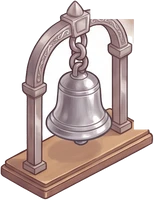
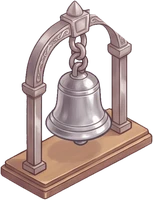
Build 480: Final exam hall (editor only) fixes after Maria's IMG_9849 («Часы коряво крутятся и справа колокольчик плохо вырезан»): the hourglass no longer turns over (the glass turning on its pedestal looked clumsy), sand keeps running and a golden shimmer marks each new question every 12 s; the bel

diff --git a/js/game.js b/js/game.js
@@ -1,15 +1,15 @@
 // Magic school idle tycoon — v0.3: isometric campus with walking creatures.
 import './clock.js?v=470';   // build audit 2026-11-24: trusted clock (server time), must stay the first import
-import './edit_guard.js?v=479';   // room editor (?edit only): in-memory storage, no cloud
+import './edit_guard.js?v=480';   // room editor (?edit only): in-memory storage, no cloud
 import {
   OFFLINE_CAP_SEC, MAX_DESKS, MAX_ITEM_LEVEL, MAX_TEACHER_LEVEL, MAX_TIME_LEVEL,
   CLASSES, SPECIES, NAMES, MISSIONS, WORLDS, WORLD, META,
-} from './data.js?v=479';
-import { EMOJI_RE, emojiImage, preloadEmoji, watchEmoji, emojiHtml } from './emoji.js?v=479';
-import { initMinigame } from './minigame.js?v=479';
-import { initChests } from './chests.js?v=479';
-import { initLore } from './lore.js?v=479';
-import { initAvatar } from './avatar.js?v=479';
+} from './data.js?v=480';
+import { EMOJI_RE, emojiImage, preloadEmoji, watchEmoji, emojiHtml } from './emoji.js?v=480';
+import { initMinigame } from './minigame.js?v=480';
+import { initChests } from './chests.js?v=480';
+import { initLore } from './lore.js?v=480';
+import { initAvatar } from './avatar.js?v=480';
 // mini-game «Зельеварка» (match-3, js/minigame.js): a pill on the main screen, its own overlay; the school keeps living under it
 const MG = initMinigame({ state: () => S, earn: (n) => bonus(n), rate: () => rateNow(), save: () => save(), stones: () => stones(), spendStones: (n) => stonesAdd(-n), toast: (t) => toast(t), fmt: (n) => fmt(n), emojiHtml, emojiImage,
   audioOut: () => { if (!sfxOn() || document.hidden) return null; const c = audio(); return c && c.state === 'running' ? { c, out: AOUT } : null; },
@@ -32,7 +32,7 @@ const LORE = initLore({ state: () => S, save: () => save(), emojiHtml, on: () =>
 const SAVE_KEY = WORLD === 1 ? 'magicschool.save.v2' : 'magicschool.save.v2.w' + WORLD;   // every world keeps its own save
 const saveKeyOf = (w) => (w === 1 ? 'magicschool.save.v2' : 'magicschool.save.v2.w' + w);
 const VERSION = '0.9';
-const BUILD = 479;   // keep equal to the ?v= number in index.html
+const BUILD = 480;   // keep equal to the ?v= number in index.html
 const $ = (s, r = document) => r.querySelector(s);
 const rnd = (a) => a[Math.floor(Math.random() * a.length)];
 
@@ -3658,7 +3658,7 @@ function drawWallDecor(c, id) {
 // furniture of a themed class: corners at the back, a bookcase by the left wall, small things in the free strip in front
 // ---- redesigned rooms: built-in, staged furnishing items (stage 0 = not bought, 1 = lvl 1-9, 2 = 10-24, 3 = 25-39, 4 = 40)
 const ITEM_IMS = {};
-function itemIm(n) { if (layCur && !layCur.n) layCur.n = n; let im = ITEM_IMS[n]; if (!im) { im = ITEM_IMS[n] = new Image(); im.src = `assets/parts/items/${n}.webp?v=${n === 'pot_hearth' || n === 'fl_hoop' || n === 'fl_basket' || n === 'fl_bell' ? 3 : 2}`; } return im.complete && im.naturalWidth ? im : null; }
+function itemIm(n) { if (layCur && !layCur.n) layCur.n = n; let im = ITEM_IMS[n]; if (!im) { im = ITEM_IMS[n] = new Image(); im.src = `assets/parts/items/${n}.webp?v=${n === 'pot_hearth' || n === 'fl_hoop' || n === 'fl_basket' || n === 'fl_bell' ? 3 : n === 'ex_bell' ? 4 : 2}`; } return im.complete && im.naturalWidth ? im : null; }
 const stageOf = (lv) => (!lv ? 0 : lv < 10 ? 1 : lv < 25 ? 2 : lv < 40 ? 3 : 4);
 function itemDraw(n, x, y, h, o = {}) {   // a sprite standing on tile (x, y): bottom-centre on the floor point, lift = px above the floor
   const im = itemIm(n); if (!im) return null; const p = P(x, y), w = h * im.naturalWidth / im.naturalHeight, top = p.y + (o.down || 0) - (o.lift || 0) - h;
@@ -3795,14 +3795,11 @@ const ROOM_ART = {
         if (cyc < 2.6) { const u = cyc / 2.6; ctx.globalAlpha = Math.min(1, (1 - u) * 2); emoji('🤫', p.x + 6 + u * 4, by - h - 4 - u * 14, 8); ctx.globalAlpha = 1; } } }
       const ss = stageOf(lv('seal')); if (ss) { const p = P(tx + 0.04, ty + 0.3), h = 28 * K[ss], im = itemIm('ex_seal'); if (im) { const w = h * im.naturalWidth / im.naturalHeight, by = p.y - TH * 0.6, gl = 0.35 + 0.2 * Math.sin(T * 1.7) + (pass < 1500 ? 0.5 * (1 - pass / 1500) : 0); ctx.drawImage(im, p.x - w / 2, by - h, w, h);
         ctx.save(); ctx.globalCompositeOperation = 'lighter'; ctx.globalAlpha = Math.min(1, gl); ctx.drawImage(glowSprite('200,120,255'), p.x - 16, by - h * 0.55, 32, 18); ctx.restore(); if (dnDark) frameLamps.push({ pot: 1, x: p.x, y: by - h * 0.3, r: 5, liq: '190,120,255', ly: by - h * 0.5 }); } } });
-    /* the big hourglass in the front-left corner; the Owl turns it before every question (canon): it turns over every 12 s */
-    const sh = stageOf(lv('hourglass')); if (sh) { const hx = s.x0 + 0.62, hy = s.y1 - 0.62; add(hx, hy, () => { const im = itemIm('ex_hourglass'); if (!im) return; const p = P(hx, hy), h = 58 * K[sh], w = h * im.naturalWidth / im.naturalHeight, top = p.y - h, cut = 0.573, iw = im.naturalWidth, ih = im.naturalHeight;
-      if (zoom >= 1.2) ctx.drawImage(propShadow(), p.x - w * 0.4, p.y - w * 0.12, w * 0.8, w * 0.24);
-      ctx.drawImage(im, 0, ih * cut, iw, ih * (1 - cut), p.x - w / 2, top + h * cut, w, h * (1 - cut));
-      const ph = T % 12, turn = ph > 11.2 ? (ph - 11.2) / 0.8 : 0, n = Math.floor(T / 12), up2 = n % 2 === 1, ang = (up2 ? Math.PI : 0) + Math.PI * (0.5 - 0.5 * Math.cos(turn * Math.PI)), gh = h * cut, cy = top + gh * 0.5;
-      ctx.save(); ctx.translate(p.x, cy); ctx.rotate(ang); ctx.drawImage(im, 0, 0, iw, ih * cut, -w / 2, -gh / 2, w, gh); ctx.restore();
-      if (!turn) { const u = (T * 1.5) % 1; ctx.fillStyle = 'rgba(255,215,110,0.9)'; ctx.fillRect(p.x - 0.5, cy - 1, 1, gh * 0.18); ctx.globalAlpha = 1 - u; ctx.fillRect(p.x - 0.6, cy + u * gh * 0.2, 1.2, 1.2); ctx.globalAlpha = 1; }
-      if (sh >= 4) { const tw = Math.pow(Math.max(0, Math.sin(T * 1.3)), 8); if (tw > 0.05) fxStar(p.x + w * 0.2, cy - gh * 0.25, 3 * tw, tw, '255,230,150'); } }); }
+    /* the big hourglass in the front-left corner (canon: the Owl turns it before every question): sand keeps running and a golden shimmer starts each new question every 12 s; the whole-sprite turn looked clumsy (her IMG_9849) */
+    const sh = stageOf(lv('hourglass')); if (sh) { const hx = s.x0 + 0.62, hy = s.y1 - 0.62; add(hx, hy, () => { const r = itemDraw('ex_hourglass', hx, hy, 58 * K[sh], { shadow: 1 }); if (!r) return; const cx = r.x, cy = r.top + r.h * 0.3, gh = r.h * 0.5;
+      ctx.fillStyle = 'rgba(255,215,110,0.85)'; ctx.fillRect(cx - 0.45, cy - 1, 0.9, gh * 0.16); for (let m = 0; m < 3; m++) { const u = (T * 1.3 + m / 3) % 1; ctx.globalAlpha = 1 - u; ctx.fillRect(cx - 0.6, cy + u * gh * 0.22, 1.2, 1.2); } ctx.globalAlpha = 1;
+      const ph = T % 12; if (ph < 1.4) { const u = ph / 1.4; ctx.save(); ctx.globalCompositeOperation = 'lighter'; ctx.globalAlpha = 0.5 * Math.sin(u * Math.PI); ctx.drawImage(glowSprite('255,215,120'), cx - r.w * 0.45, cy - gh * 0.45, r.w * 0.9, gh * 0.9); ctx.restore(); fxStar(cx + r.w * 0.18, cy - gh * 0.3 + u * gh * 0.5, 3 * Math.sin(u * Math.PI), Math.sin(u * Math.PI), '255,235,170'); }
+      if (sh >= 4) { const tw = Math.pow(Math.max(0, Math.sin(T * 1.3)), 8); if (tw > 0.05) fxStar(cx - r.w * 0.2, cy - gh * 0.2, 3 * tw, tw, '255,230,150'); } }); }
     /* candles of concentration float along the back wall between the bays */
     const sc = stageOf(lv('candles')); if (sc) { const xs = [4.8, 9.6, 2.4, 12, 7.2, 14.4].slice(0, [0, 2, 3, 4, 6][sc]);
       for (const dx of xs) { const cx = s.x0 + dx, cy = s.y0 + 0.3; add(cx, cy, () => { const im = itemIm('ex_candle'); if (!im) return; const p = P(cx, cy), h = 20, w = h * im.naturalWidth / im.naturalHeight, y = p.y - TALL_H() * 0.42 + Math.sin(T * 1.1 + dx) * 2.5 - h; ctx.drawImage(im, p.x - w / 2, y, w, h);
@@ -7090,5 +7087,5 @@ if (EDIT) {   // room editor: js/editor.js gets the game's room tools
     get zoom() { return zoom; }, get scale() { return scale; }, get dpr() { return dpr; }, scroller, canvas,
     get layout() { return RLAY; }, setLayout, entries: () => LAY_ENT.slice(), walls: (th) => (LAY_WALLS[th] || []).slice(), layPos, layIm, texPart, thumb: (n, th) => { const im = n && (ITEM_IMS[n] || parts[th + '/' + n] || parts[th + '/iso_' + n] || LAY_IMS[n]); return im ? im.src : ''; },
     zoomAt: (z, x, y) => { setZoom(z, 0, 0, 0, 0); focusTile(x, y, false); } };
-  import('./editor.js?v=479').then((m) => m.initEditor(window.__EDIT_API)).catch((e) => { console.error(e); alert('Редактор не загрузился: ' + e.message); });
+  import('./editor.js?v=480').then((m) => m.initEditor(window.__EDIT_API)).catch((e) => { console.error(e); alert('Редактор не загрузился: ' + e.message); });
 }

diff --git a/index.html b/index.html
@@ -12,7 +12,7 @@
 <link rel="manifest" href="manifest.webmanifest">
 <link rel="apple-touch-icon" href="icons/icon-180.png?v=2">
 <link rel="icon" href="icons/icon-192.png?v=2">
-<link rel="stylesheet" href="style.css?v=479">
+<link rel="stylesheet" href="style.css?v=480">
 <script>/* iOS home-screen app: innerHeight / 100% / 100dvh are short by the status bar, a strip stayed at the bottom (her screenshots, builds 200-203); use the real screen height */
 (function(){function fit(){if(!(navigator.standalone||matchMedia('(display-mode: standalone)').matches))return;var h=Math.max(window.innerHeight,(Math.abs(window.orientation||0)===90?screen.width:screen.height));var r=document.documentElement;r.style.height=h+'px';if(document.body){document.body.style.height=h+'px';document.body.style.bottom='auto';}}fit();addEventListener('DOMContentLoaded',fit);addEventListener('resize',fit);addEventListener('orientationchange',function(){setTimeout(fit,300);});})();</script>
 </head>
@@ -72,6 +72,6 @@ setTimeout(function(){ if (window.__booted) return; var d=document.createElement
   d.querySelector('button').onclick=function(){ location.reload(); }; document.body.appendChild(d); }, 12000);
 if(!CanvasRenderingContext2D.prototype.roundRect){CanvasRenderingContext2D.prototype.roundRect=function(x,y,w,h){this.rect(x,y,w,h);};}
 </script>
-<script type="module" src="js/game.js?v=479"></script>
+<script type="module" src="js/game.js?v=480"></script>
 </body>
 </html>

diff --git a/js/emoji.js b/js/emoji.js
@@ -1,6 +1,6 @@
 // One emoji look on every device: emoji characters are replaced by bundled Twemoji pictures
 // (CC-BY 4.0, https://github.com/jdecked/twemoji), both in the page (DOM) and on the canvas.
-import { EMOJI_FILES } from './emoji-set.js?v=479';
+import { EMOJI_FILES } from './emoji-set.js?v=480';
 
 export const EMOJI_RE = /\p{Extended_Pictographic}(?:|\p{Extended_Pictographic}?|[\u{1F3FB}-\u{1F3FF}])*/gu;
 
